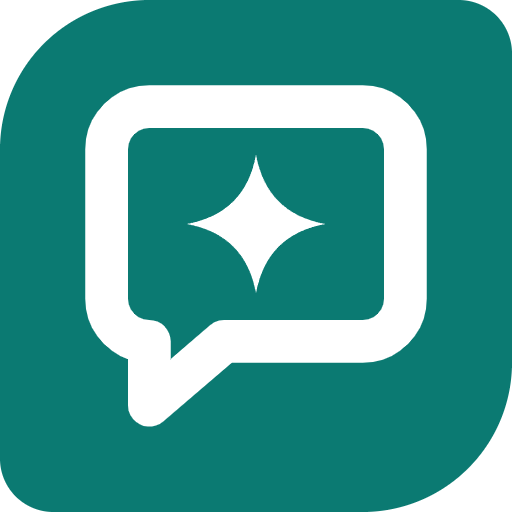
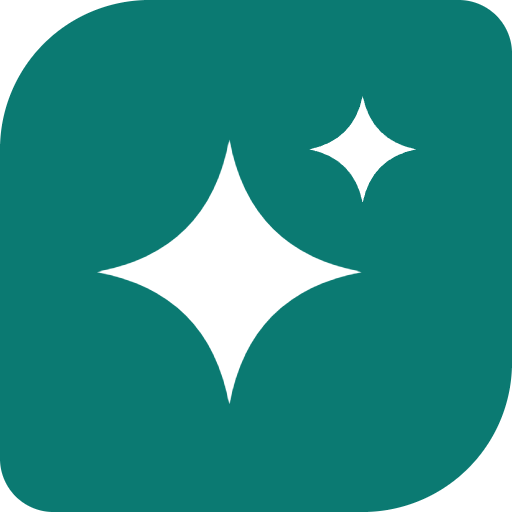
feat: logótipo novo do Assistente, GlifoApp sem base e a app Carta Social Mutualista (v0.19.0)
- Assistente: o glifo passa a ser a faísca (estrela de quatro pontas grande
  e uma pequena) em vez do balão de conversa, que se lia como «chat».
- GlifoApp: o glifo de uma app sem a base «folha», em currentColor — segue
  claro, escuro, Alto contraste e cores forçadas. O botão «Assistente» da
  barra de topo, o título do chat e as ações do assistente em Preencher
  (documento, rascunhos) usam-no no lugar do Sparkles da Lucide.
- Nova app «carta» (Carta Social Mutualista, /carta): pública, aparece em
  todos os lançadores; cor da marca (como Portal e Cartão — não há matiz
  livre a ≥ 30°); glifo de mapa dobrado com o lugar marcado; ícones e
  favicons gerados.
- Showcase: o glifo sem base nos três temas; guia shell.md.

Changed region(s): [[0.1562, 0.1562, 0.8438, 0.8438]]

diff --git a/showcase/icones.tsx b/showcase/icones.tsx
@@ -1,5 +1,5 @@
 import { House, Plus, RotateCw, X } from "lucide-react";
-import { AppShell, IconeApp, LancadorApps, ProcuraApp, nomeDaApp, type MutualAppId } from "../src/index.ts";
+import { AppShell, GlifoApp, IconeApp, LancadorApps, ProcuraApp, nomeDaApp, type MutualAppId } from "../src/index.ts";
 
 /**
  * The app icon family and the grid launcher. `?pagina=icones` shows
@@ -7,11 +7,11 @@ import { AppShell, IconeApp, LancadorApps, ProcuraApp, nomeDaApp, type MutualApp
  * `?pagina=icones-shell&app=<id>` is the real frame (AppShell).
  */
 
-const TODAS: MutualAppId[] = ["portal", "backoffice", "eventos", "simplex", "saude", "qr", "dns", "assistente", "protocolos", "monitor", "cartao"];
-const LANCADOR: MutualAppId[] = ["portal", "backoffice", "eventos", "simplex", "saude", "dns", "assistente", "protocolos", "monitor", "qr"];
+const TODAS: MutualAppId[] = ["portal", "backoffice", "eventos", "simplex", "saude", "qr", "dns", "assistente", "protocolos", "monitor", "cartao", "carta"];
+const LANCADOR: MutualAppId[] = ["portal", "backoffice", "eventos", "simplex", "saude", "dns", "assistente", "protocolos", "monitor", "qr", "carta"];
 const TAMANHOS = [16, 20, 24, 32, 48];
 
-const CURTO: Partial<Record<MutualAppId, string>> = { dns: "DNS", qr: "QR", monitor: "Monitorização", cartao: "Cartão" };
+const CURTO: Partial<Record<MutualAppId, string>> = { dns: "DNS", qr: "QR", monitor: "Monitorização", cartao: "Cartão", carta: "Carta Social" };
 
 function Grelha() {
   return (
@@ -46,7 +46,7 @@ function Grelha() {
 
 /** A browser tab strip (mock): the favicons at 16 px, in a light and a dark window. */
 function Separadores({ escuro }: { escuro: boolean }) {
-  const abas: MutualAppId[] = ["portal", "eventos", "simplex", "saude", "backoffice", "monitor", "assistente", "dns", "protocolos", "qr", "cartao"];
+  const abas: MutualAppId[] = ["portal", "eventos", "simplex", "saude", "backoffice", "monitor", "assistente", "dns", "protocolos", "qr", "cartao", "carta"];
   const fundo = escuro ? "#202124" : "#dee1e6";
   const aba = escuro ? "#35363a" : "#ffffff";
   const texto = escuro ? "#e8eaed" : "#202124";
@@ -120,6 +120,25 @@ export function PaginaIcones() {
 
       <Seccao id="s-grelha" titulo="Família" descricao="16, 20, 24, 32 e 48 px (sem ampliação).">
         <Grelha />
+      </Seccao>
+
+      <Seccao
+        id="s-glifo"
+        titulo="Glifo sem base"
+        descricao="GlifoApp: a cor do texto à volta — botão «Assistente» da barra de topo e título do chat, em claro, escuro e alto contraste."
+      >
+        <div className="grid gap-3 sm:grid-cols-3">
+          {(["", "dark", "contraste"] as const).map((tema) => (
+            <div key={tema || "claro"} className={tema || undefined}>
+              <div className="m-surface flex items-center gap-4 rounded-xl p-4 text-foreground">
+                <span className="inline-flex items-center gap-2 font-medium">
+                  <GlifoApp app="assistente" /> Assistente
+                </span>
+                <GlifoApp app="carta" tamanho={24} titulo="Carta Social Mutualista" />
+              </div>
+            </div>
+          ))}
+        </div>
       </Seccao>
 
       <Seccao id="s-barra" titulo="Barra de topo" descricao="O mosaico da app e o botão de nove pontos (abra-o: setas, Enter, Esc).">

diff --git a/src/icones.ts b/src/icones.ts
@@ -38,6 +38,7 @@ export const COR_MARCA_APP: Record<MutualAppId, string> = {
   protocolos: "#b93a2e",
   monitor: "#6b7500",
   cartao: "#1f6f36",
+  carta: "#1f6f36",
 };
 
 export const GLIFOS_APPS: Record<MutualAppId, readonly FormaGlifo[]> = {
@@ -85,10 +86,11 @@ export const GLIFOS_APPS: Record<MutualAppId, readonly FormaGlifo[]> = {
     { t: "circulo", x: 8.75, y: 7.625, r: 1.5, papel: "k" },
     { t: "circulo", x: 8.75, y: 16.375, r: 1.5, papel: "k" },
   ],
-  // Assistente — a speech bubble with the spark.
+  // Assistente — the spark: a large four-pointed star and a small one (2026-10-01:
+  // the speech bubble read as «chat», not as «assistant»).
   assistente: [
-    { t: "traco", d: "M7 5h10a2 2 0 0 1 2 2v7a2 2 0 0 1-2 2h-6.5L7 19v-3a2 2 0 0 1-2-2V7a2 2 0 0 1 2-2Z" },
-    { t: "cheio", d: "M12 7.25q.5 2.75 3.25 3.25-2.75.5-3.25 3.25-.5-2.75-3.25-3.25 2.75-.5 3.25-3.25Z", papel: "r" },
+    { t: "cheio", d: "M10.75 6.5q.95 5.3 6.25 6.25-5.3.95-6.25 6.25-.95-5.3-6.25-6.25 5.3-.95 6.25-6.25Z" },
+    { t: "cheio", d: "M17 4.5q.42 2.08 2.5 2.5-2.08.42-2.5 2.5-.42-2.08-2.5-2.5 2.08-.42 2.5-2.5Z", papel: "r" },
   ],
   // Protocolos — two linked rings: two parties, one agreement.
   protocolos: [
@@ -99,6 +101,12 @@ export const GLIFOS_APPS: Record<MutualAppId, readonly FormaGlifo[]> = {
   monitor: [
     { t: "traco", d: "M4.75 13h2.75l2-5 3.5 9 2-5.5h1" },
     { t: "circulo", x: 18.25, y: 11.5, r: 1.9, papel: "r" },
+  ],
+  // Carta Social Mutualista — a folded map with the place marked.
+  carta: [
+    { t: "traco", d: "M4.75 7.25l4.5-2 5.5 2 4.5-2v11.5l-4.5 2-5.5-2-4.5 2Z" },
+    { t: "traco", d: "M9.25 5.25v11.5M14.75 7.25v11.5", papel: "s" },
+    { t: "circulo", x: 12, y: 11.5, r: 1.9, papel: "r" },
   ],
   // Cartão Digital — an ID card: photo and two lines.
   cartao: [

diff --git a/src/apps.ts b/src/apps.ts
@@ -4,7 +4,7 @@
  * host `urlCartao` (sso.ts); only the origin `MUTUAL_URL` varies per deployment.
  */
 
-export type MutualAppId = "portal" | "backoffice" | "eventos" | "simplex" | "qr" | "saude" | "dns" | "assistente" | "protocolos" | "monitor" | "cartao";
+export type MutualAppId = "portal" | "backoffice" | "eventos" | "simplex" | "qr" | "saude" | "dns" | "assistente" | "protocolos" | "monitor" | "cartao" | "carta";
 /** Apps served under the shared host (ADR 0004). The Cartão Digital has its own. */
 export type AppNoEndereco = Exclude<MutualAppId, "cartao">;
 
@@ -111,6 +111,14 @@ export const MUTUAL_APPS: readonly MutualApp[] = [
     palavrasChave: ["scanner", "leitor", "código qr", "entradas", "check-in", "controlo de acessos"],
     publica: true,
   },
+  {
+    id: "carta",
+    nome: "Carta Social Mutualista",
+    descricao: "As associações mutualistas e o que oferecem: pesquisa, mapa e indicadores.",
+    publico: "Todas as pessoas (público), e a UMP na versão completa",
+    palavrasChave: ["carta social", "mapa", "associações mutualistas", "indicadores", "respostas sociais", "saúde", "farmácias", "pesquisa"],
+    publica: true,
+  },
 ] as const;
 
 export function getMutualApp(id: MutualAppId): MutualApp | undefined {
@@ -138,7 +146,8 @@ export function appsDisponiveis(apps: Readonly<Record<string, unknown>> | null |
   for (const a of MUTUAL_APPS) {
     // The Validador QR (public, no profile) comes with Eventos — the Portal's rule:
     // the door of an event is where it is used.
-    if (a.id === "qr" ? tem("eventos") : tem(a.id)) lista.push(a.id);
+    // The Carta Social Mutualista is public: in every launcher.
+    if (a.id === "carta" || (a.id === "qr" ? tem("eventos") : tem(a.id))) lista.push(a.id);
   }
   return lista;
 }

diff --git a/src/preencher.tsx b/src/preencher.tsx
@@ -16,7 +16,8 @@
  * (`/api/v1/assistente/*`, the Cérebro; no app proxy).
  */
 import { useEffect, useId, useMemo, useRef, useState, type ElementType, type ReactNode } from "react";
-import { ArrowRight, CircleCheck, FileText, FileUp, Info, Sparkles } from "lucide-react";
+import { ArrowRight, CircleCheck, FileText, FileUp, Info } from "lucide-react";
+import { GlifoApp } from "./icone-app";
 import { cx } from "./cx";
 import { Button } from "./basicos";
 import { StatusBadge, StatusCallout } from "./feedback";
@@ -288,7 +289,7 @@ export function PreencherComDocumento({
   return (
     <>
       <Button variant={buttonVariant} onClick={() => setAberto(true)} disabled={disabled} className={className}>
-        <Sparkles aria-hidden /> {label}
+        <GlifoApp app="assistente" /> {label}
       </Button>
       <Dialog
         open={aberto}
@@ -454,7 +455,7 @@ export function RascunhoTexto({
     <section aria-labelledby={`${id}-t`} className={cx("m-surface flex max-w-2xl flex-col gap-3 rounded-xl border border-border p-4", className)}>
       <div className="flex flex-wrap items-center gap-2">
         <span aria-hidden className="grid size-8 place-items-center rounded-lg bg-brand-soft text-brand">
-          <Sparkles size={16} />
+          <GlifoApp app="assistente" tamanho={16} />
         </span>
         <p id={`${id}-t`} className="text-sm font-medium text-muted-foreground">
           Rascunho · {NOME_RASCUNHO[tipo] ?? "Texto"}

diff --git a/src/icone-app.tsx b/src/icone-app.tsx
@@ -48,6 +48,43 @@ export function IconeApp({
   );
 }
 
+/**
+ * The glyph of an app WITHOUT the «folha» base, in `currentColor`: it takes the
+ * colour of the text it sits in, so it follows the theme (light, dark, Alto
+ * contraste, forced colours) by itself. For buttons and titles that open or
+ * name the app (the top-bar «Assistente», the chat title); the launcher and
+ * the tiles keep `IconeApp`. Decorative unless `titulo` is given.
+ */
+export function GlifoApp({
+  app,
+  tamanho = 20,
+  titulo,
+  className,
+}: {
+  app: MutualAppId;
+  tamanho?: number | undefined;
+  titulo?: string | undefined;
+  className?: string | undefined;
+}) {
+  return (
+    <svg
+      viewBox="4 4 16 16"
+      width={tamanho}
+      height={tamanho}
+      data-app-glifo={app}
+      className={cx("m-glifo-app", className)}
+      role={titulo ? "img" : undefined}
+      aria-label={titulo}
+      aria-hidden={titulo ? undefined : true}
+      focusable="false"
+    >
+      {GLIFOS_APPS[app].map((f, i) => (
+        <Forma key={i} f={f} />
+      ))}
+    </svg>
+  );
+}
+
 /** The nine-dot «waffle» (3 × 3) of the launcher button. */
 export function IconeWaffle({ tamanho = 24 }: { tamanho?: number | undefined }) {
   const pontos: ReactNode[] = [];

diff --git a/tests/apps.test.ts b/tests/apps.test.ts
@@ -4,7 +4,7 @@ import { MUTUAL_APPS, appsDisponiveis } from "../src/apps.ts";
 
 test("appsDisponiveis keeps the ecosystem order, the Portal first, and drops null apps", () => {
   const eu = { monitor: { nome: "Informática" }, dns: { nome: "Informática" }, backoffice: null, saude: undefined };
-  assert.deepEqual(appsDisponiveis(eu), ["portal", "dns", "monitor"]);
+  assert.deepEqual(appsDisponiveis(eu), ["portal", "dns", "monitor", "carta"]);
 });
 
 test("appsDisponiveis lists every app of MUTUAL_APPS the profile opens (new apps included)", () => {
@@ -16,7 +16,7 @@ test("appsDisponiveis lists every app of MUTUAL_APPS the profile opens (new apps
   assert.ok(appsDisponiveis(todas).includes("monitor"));
 });
 
-test("appsDisponiveis without data still offers the Portal", () => {
-  assert.deepEqual(appsDisponiveis(null), ["portal"]);
-  assert.deepEqual(appsDisponiveis({ cartao: { nome: "x" }, desconhecida: {} }), ["portal"]);
+test("appsDisponiveis without data still offers the Portal and the public Carta Social Mutualista", () => {
+  assert.deepEqual(appsDisponiveis(null), ["portal", "carta"]);
+  assert.deepEqual(appsDisponiveis({ cartao: { nome: "x" }, desconhecida: {} }), ["portal", "carta"]);
 });

diff --git a/src/assistente-chat.tsx b/src/assistente-chat.tsx
@@ -45,8 +45,9 @@ import {
   type PointerEvent as ReactPointerEvent,
 } from "react";
 import { createPortal } from "react-dom";
-import { ArrowLeft, ExternalLink, GripVertical, ListChecks, Minus, MessageSquarePlus, MessagesSquare, Sparkles, X } from "lucide-react";
+import { ArrowLeft, ExternalLink, GripVertical, ListChecks, Minus, MessageSquarePlus, MessagesSquare, X } from "lucide-react";
 import { cx } from "./cx";
+import { GlifoApp } from "./icone-app";
 import { Button } from "./basicos";
 import { StatusCallout } from "./feedback";
 import { MUTUAL_APPS, nomeDaApp, type AppNoEndereco, type MutualAppId } from "./apps";
@@ -568,7 +569,7 @@ function Janela({ app, api = API_ASSISTENTE, fetcher, enderecoAssistente = CAMIN
         ) : null}
         <div className="m-chat-titulo">
           <p id={tituloId} className="flex items-center gap-1.5 font-semibold">
-            <Sparkles aria-hidden className="size-4 text-brand" />
+            <GlifoApp app="assistente" tamanho={16} className="text-brand" />
             Assistente
           </p>
           <p className="truncate text-sm text-muted-foreground">

diff --git a/css/tokens.css b/css/tokens.css
@@ -220,6 +220,7 @@
 [data-app="assistente"] { --app-accent: #0b7a72; --app-accent-soft: #e7f6f4; --app-accent-on-ink: #72dfcf; }
 [data-app="protocolos"] { --app-accent: #b93a2e; --app-accent-soft: #fdf0ee; --app-accent-on-ink: #fca99f; }
 [data-app="portal"],
+[data-app="carta"],
 [data-app="cartao"]     { --app-accent: var(--brand); }
 
 .dark[data-app="backoffice"], .dark [data-app="backoffice"] { --app-accent: #93b4fb; --app-accent-soft: #172544; }
@@ -244,6 +245,7 @@
 [data-app="assistente"] { --app-marca: #0b7a72; }
 [data-app="protocolos"] { --app-marca: #b93a2e; }
 [data-app="portal"],
+[data-app="carta"],
 [data-app="cartao"]     { --app-marca: #1f6f36; }
 
 /* ─── Frame (shell G) ─────────────────────────────────────────────────────

diff --git a/src/assistente.tsx b/src/assistente.tsx
@@ -15,7 +15,7 @@
  *   chat yields.
  */
 import { createContext, useContext, useEffect, useRef, useSyncExternalStore, type ReactNode } from "react";
-import { Sparkles } from "lucide-react";
+import { GlifoApp } from "./icone-app";
 import { cx } from "./cx";
 import { hashContexto, normalizarContexto, type EntradaContexto } from "./assistente-contexto";
 import {
@@ -72,7 +72,7 @@ export function BotaoAssistente({ className }: { className?: string | undefined 
       }}
       className={cx("m-barra-util relative max-md:!w-11 max-md:!justify-center max-md:!px-0", className)}
     >
-      <Sparkles aria-hidden />
+      <GlifoApp app="assistente" />
       <span className="max-md:sr-only">Assistente</span>
       {nova && !aberto && (
         <>

diff --git a/css/icones.css b/css/icones.css
@@ -30,6 +30,20 @@
   --ic-s: rgb(255 255 255 / 0.72);
 }
 
+/* The glyph without the base (`GlifoApp`): the colour of the text around it, in every theme. */
+.m-glifo-app {
+  display: inline-block;
+  flex: none;
+  vertical-align: middle;
+  overflow: visible;
+}
+.m-glifo-app .m-ic-p,
+.m-glifo-app .m-ic-r { --ic-c: currentColor; }
+.m-glifo-app .m-ic-s { --ic-c: currentColor; opacity: 0.72; }
+.m-glifo-app .m-ic-k { --ic-c: transparent; }
+.m-glifo-app .m-ic-cheio { fill: var(--ic-c); }
+.m-glifo-app .m-ic-traco { fill: none; stroke: var(--ic-c); stroke-width: 2; stroke-linecap: round; stroke-linejoin: round; }
+
 @media (forced-colors: active) {
   .m-icone-app { forced-color-adjust: none; }
   .m-icone-app {

diff --git a/src/index.ts b/src/index.ts
@@ -4,7 +4,7 @@ export * from "./brand";
 // Shell G: top bar + tinted frame + navigation + one content layer.
 export { LancadorApps, posicionarPopover } from "./app-switcher";
 // The app icon family and the grid launcher.
-export { IconeApp, IconeWaffle } from "./icone-app";
+export { GlifoApp, IconeApp, IconeWaffle } from "./icone-app";
 export { BASE_ICONE, COR_MARCA_APP, GLIFOS_APPS, svgIconeApp, type FormaGlifo, type PapelGlifo } from "./icones";
 export { indiceNaGrelha } from "./grelha-teclado";
 export {

diff --git a/src/sso.ts b/src/sso.ts
@@ -29,6 +29,7 @@ export const CAMINHOS = {
   assistente: "/assistente",
   protocolos: "/protocolos",
   monitor: "/monitor",
+  carta: "/carta",
   ajuda: "/ajuda",
   api: "/api",
 } as const satisfies Record<AppNoEndereco | "ajuda" | "api", string>;
